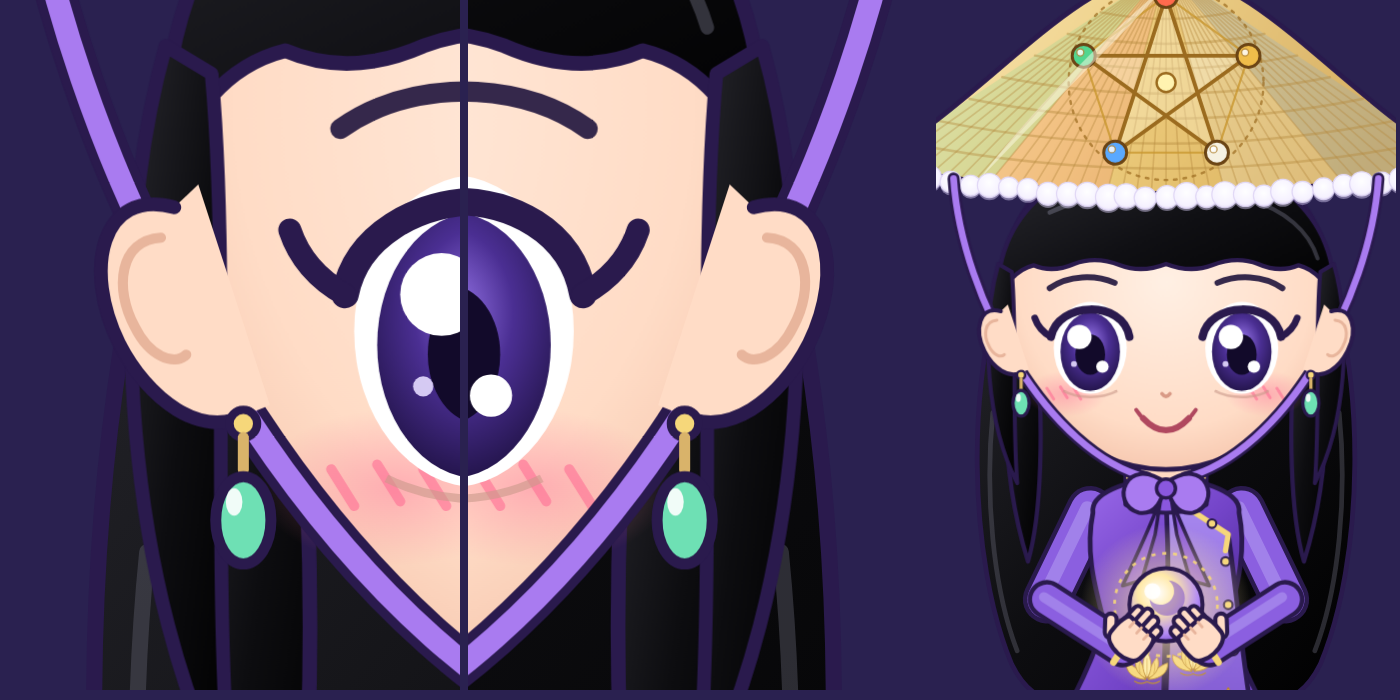
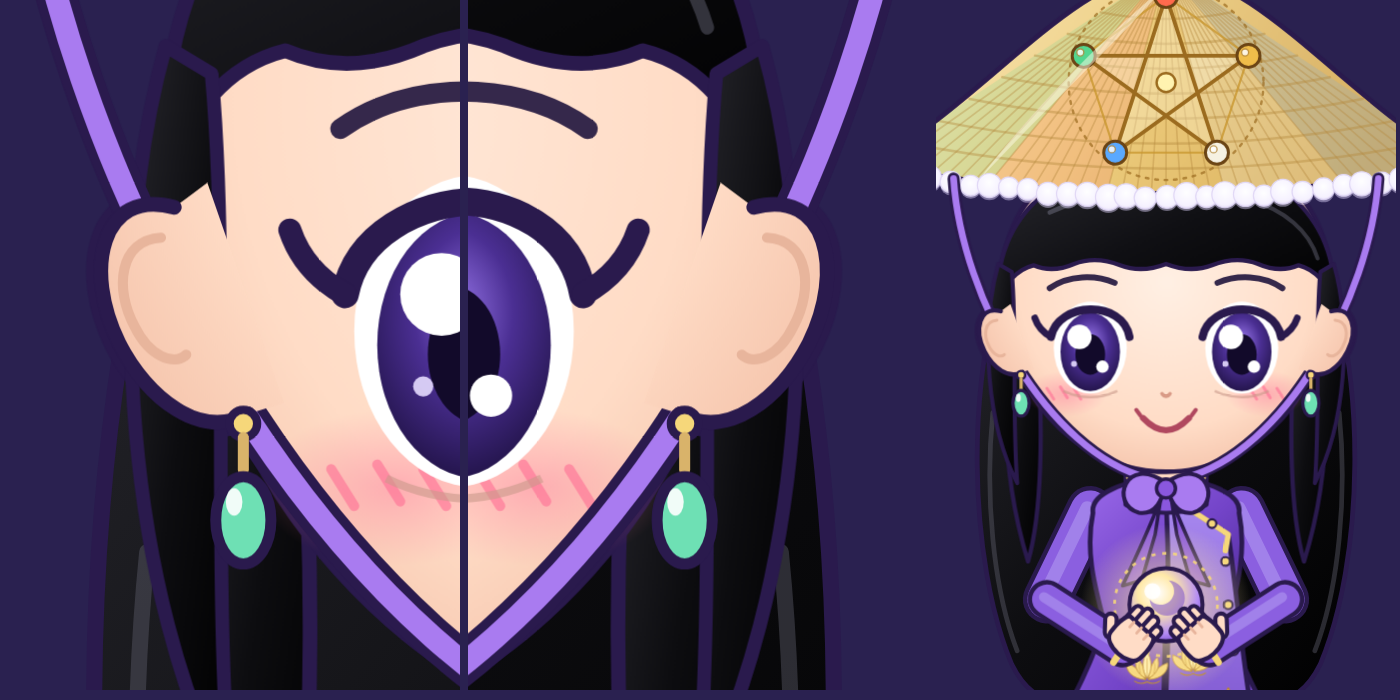
Tai liền khối với mặt: cùng gradient da, viền một lần cho cả khối
Claude-Session: https://claude.ai/code/session_01AxiVpuxpGkTqByN3TdYc71

diff --git a/tools/rig.py b/tools/rig.py
@@ -205,6 +205,17 @@ def world_fx():
     s.append('<g class="fx fx-shock" stroke="#ffd36b" stroke-width="5" stroke-linecap="round" fill="none"><path d="M 436 286 l 26 -12 M 442 318 l 30 0 M 436 350 l 26 12"/><path d="M 164 286 l -26 -12 M 158 318 l -30 0 M 164 350 l -26 12"/></g>')
     return '\n'.join(s)
 
+def ear_geom(sgn):
+    """Hình học tai (vẽ theo tai phải rồi lật). fill: vùng da của tai (chân tai thụt vào trong má); outer: đường viền ngoài; rim: gờ vành tai."""
+    X = lambda x: 300 + sgn * (x - 300)
+    ang = sgn * 10; cx, cy = X(414), 358
+    outer = f'M {X(418)} 334 C {X(433)} 327 {X(440)} 344 {X(435)} 361 C {X(431)} 374 {X(421)} 385 {X(410)} 381'
+    fill = outer + f' L {X(402)} 380 L {X(410)} 330 Z'
+    rim = f'M {X(422)} 340 C {X(431)} 339 {X(434)} 349 {X(431)} 358 C {X(429)} 365 {X(424)} 368 {X(421)} 366'
+    t = math.radians(ang); px, py = X(411), 381; dx, dy = px - cx, py - cy
+    lobe = (cx + dx * math.cos(t) - dy * math.sin(t), cy + dx * math.sin(t) + dy * math.cos(t))
+    return dict(fill=fill, outer=outer, rim=rim, ang=ang, cx=cx, cy=cy, lobe=lobe)
+
 POSES_BACK, POSES_FRONT = poses()
 def build():
     S = []
@@ -216,7 +227,7 @@ def build():
              + '<linearGradient id="hairg" x1="0" y1="0" x2="1" y2="1"><stop offset="0" stop-color="#26262c"/><stop offset=".5" stop-color="#0d0d10"/><stop offset="1" stop-color="#000"/></linearGradient>'
              + '<linearGradient id="adg" x1="0" y1="0" x2="1" y2="1"><stop offset="0" stop-color="#9a69ea"/><stop offset=".55" stop-color="#7344c8"/><stop offset="1" stop-color="#4e2a97"/></linearGradient>'
              + '<linearGradient id="adg2" x1="0" y1="0" x2="0" y2="1"><stop offset="0" stop-color="#a98af0"/><stop offset="1" stop-color="#6a3dc0"/></linearGradient>'
-             + '<radialGradient id="skin" cx=".5" cy=".42" r=".65"><stop offset="0" stop-color="#fff0e4"/><stop offset=".7" stop-color="#ffdcc6"/><stop offset="1" stop-color="#f3bfa6"/></radialGradient>'
+             + '<radialGradient id="skin" gradientUnits="userSpaceOnUse" cx="300" cy="313" r="156"><stop offset="0" stop-color="#fff0e4"/><stop offset=".7" stop-color="#ffdcc6"/><stop offset="1" stop-color="#f3bfa6"/></radialGradient>'
              + '<radialGradient id="blush"><stop offset="0" stop-color="#ff7fa0" stop-opacity=".7"/><stop offset="1" stop-color="#ff7fa0" stop-opacity="0"/></radialGradient>'
              + '<radialGradient id="iris" cx=".5" cy=".38" r=".7"><stop offset="0" stop-color="#9d7bf0"/><stop offset=".45" stop-color="#4b2f93"/><stop offset="1" stop-color="#1b0f3c"/></radialGradient>'
              + '<radialGradient id="orbg" cx=".38" cy=".34" r=".75"><stop offset="0" stop-color="#fff"/><stop offset=".35" stop-color="#ffe9a8"/><stop offset=".75" stop-color="#b48cf5"/><stop offset="1" stop-color="#6b3fc4"/></radialGradient>'
@@ -249,7 +260,14 @@ def build():
     S.append('</g>')  # body
     # ----- đầu -----
     S.append('<g id="head">')
-    S.append(f'<path d="M 180 318 C 180 244 238 212 300 212 C 362 212 420 244 420 318 C 420 392 366 452 300 452 C 234 452 180 392 180 318 Z" fill="url(#skin)" stroke="{OUT}" stroke-width="3.5"/>')
+    FACE_D = "M 180 318 C 180 244 238 212 300 212 C 362 212 420 244 420 318 C 420 392 366 452 300 452 C 234 452 180 392 180 318 Z"
+    E = [ear_geom(-1), ear_geom(1)]
+    wrap = lambda g, inner: f'<g transform="rotate({g["ang"]} {g["cx"]} {g["cy"]})">{inner}</g>'
+    S.append('<g id="skin-mass">'      # mặt và hai tai là MỘT khối da: viền vẽ một lần cho cả khối, màu da cùng một dải chuyển sắc
+             + f'<path d="{FACE_D}" fill="none" stroke="{OUT}" stroke-width="7" stroke-linejoin="round"/>'
+             + ''.join(wrap(g, f'<path d="{g["fill"]}" fill="none" stroke="{OUT}" stroke-width="6.4" stroke-linejoin="round"/>') for g in E)
+             + f'<path d="{FACE_D}" fill="url(#skin)"/>'
+             + ''.join(wrap(g, f'<path d="{g["fill"]}" fill="url(#skin)"/>') for g in E) + '</g>')
     S.append('<g id="features">')
     S.append('<g class="blush"><ellipse cx="226" cy="396" rx="30" ry="17" fill="url(#blush)"/></g><g class="blush"><ellipse cx="374" cy="396" rx="30" ry="17" fill="url(#blush)"/></g>')
     S.append('<g stroke="#ff6f95" stroke-width="2.2" stroke-linecap="round" opacity=".6"><path d="M 212 392 l 5 8 M 222 391 l 5 8 M 232 392 l 5 8"/><path d="M 362 392 l 5 8 M 372 391 l 5 8 M 382 392 l 5 8"/></g>')
@@ -273,20 +291,12 @@ def build():
         S.append(f'<path d="{d}" fill="none" stroke="{OUT}" stroke-width="9" stroke-linecap="round"/><path d="{d}" fill="none" stroke="#a97bf0" stroke-width="5" stroke-linecap="round"/>')
     S.append(f'<path d="M 300 462 C 270 440 258 478 280 484 C 292 486 298 474 300 462 C 302 474 308 486 320 484 C 342 478 330 440 300 462 Z" fill="#a97bf0" stroke="{OUT}" stroke-width="3" stroke-linejoin="round"/>')
     S.append(f'<path d="M 296 474 C 286 500 276 520 268 538 L 282 534 L 292 500 Z M 304 474 C 314 500 324 520 332 538 L 318 534 L 308 500 Z" fill="#8a57de" stroke="{OUT}" stroke-width="2.6" stroke-linejoin="round"/><circle cx="300" cy="466" r="7" fill="#8a57de" stroke="{OUT}" stroke-width="2.6"/>')
-    for sgn in (-1, 1):   # tai áp sát hai bên mặt, hơi nghiêng; chân tai liền với má, bông tai buông thẳng từ đáy dái tai
-        X = lambda x: 300 + sgn * (x - 300)          # vẽ theo tai phải rồi lật cho tai trái
-        ang = sgn * 10; cx, cy = X(414), 358
-        def rot(px, py):
-            dx, dy = px - cx, py - cy; t = math.radians(ang)
-            return cx + dx * math.cos(t) - dy * math.sin(t), cy + dx * math.sin(t) + dy * math.cos(t)
-        outer = (f'M {X(418)} 334 C {X(433)} 327 {X(440)} 344 {X(435)} 361 C {X(431)} 374 {X(421)} 385 {X(410)} 381')
-        fill = outer + f' L {X(405)} 380 L {X(412)} 330 Z'      # chân tai thụt vào trong má để che đường viền mặt
-        rim = f'M {X(422)} 340 C {X(431)} 339 {X(434)} 349 {X(431)} 358 C {X(429)} 365 {X(424)} 368 {X(421)} 366'
-        lx, ly = rot(X(411), 381)                             # đáy dái tai sau khi nghiêng
-        S.append(f'<g class="ear"><g transform="rotate({ang} {cx} {cy})"><path d="{fill}" fill="#ffdcc6"/>'
-                 f'<path d="{outer}" fill="none" stroke="{OUT}" stroke-width="3" stroke-linecap="round" stroke-linejoin="round"/>'
-                 f'<path d="{rim}" fill="none" stroke="#e8b59c" stroke-width="2.2" stroke-linecap="round"/></g>'
-                 f'<circle cx="{lx:.1f}" cy="{ly + 2:.1f}" r="3" fill="#f6d77a" stroke="{OUT}" stroke-width="1.8"/>'
+    for g in E:   # vẽ lại tai ở lớp trên (che dây quai) bằng đúng gradient da và đúng hình khối, nên vẫn liền với má
+        lx, ly = g['lobe']
+        S.append('<g class="ear">' + wrap(g, f'<path d="{g["fill"]}" fill="url(#skin)"/>'
+                 f'<path d="{g["outer"]}" fill="none" stroke="{OUT}" stroke-width="3.2" stroke-linecap="round" stroke-linejoin="round"/>'
+                 f'<path d="{g["rim"]}" fill="none" stroke="#e8b59c" stroke-width="2.2" stroke-linecap="round"/>')
+                 + f'<circle cx="{lx:.1f}" cy="{ly + 2:.1f}" r="3" fill="#f6d77a" stroke="{OUT}" stroke-width="1.8"/>'
                  f'<path d="M {lx:.1f} {ly + 5:.1f} L {lx:.1f} {ly + 12:.1f}" stroke="#d9b36a" stroke-width="2.4" stroke-linecap="round"/>'
                  f'<ellipse cx="{lx:.1f}" cy="{ly + 23:.1f}" rx="6" ry="9.5" fill="#6ee0b4" stroke="{OUT}" stroke-width="2.4"/><ellipse cx="{lx - 2:.1f}" cy="{ly + 19:.1f}" rx="1.8" ry="3" fill="#fff" opacity=".9"/></g>')
     S.append('</g>')  # head
